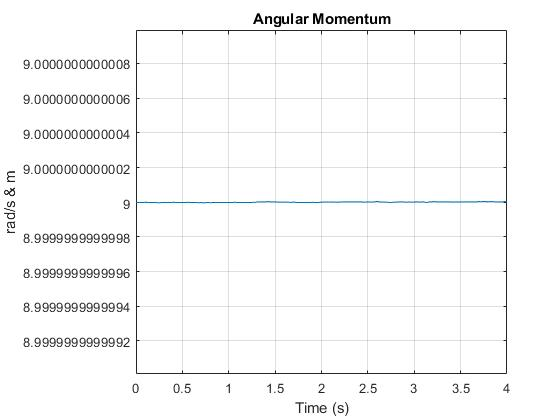
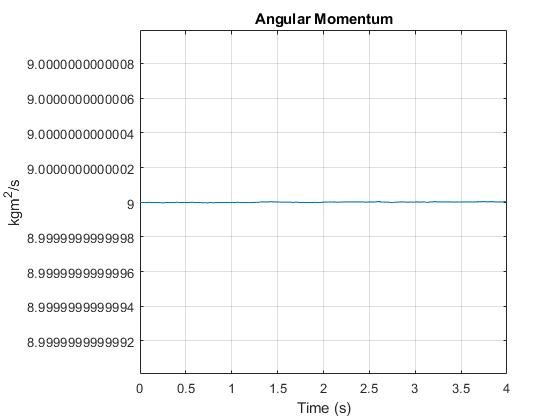
Adding Tree to README

diff --git a/OstLab/Lab2.m b/OstLab/Lab2.m
@@ -45,11 +45,11 @@ ks = 10; % Spring constant.
 kd = 0; % Damping coefficient.w
 g = 0; % NO GRAVITY.
 % The particles are released from rest, i.e:
-v = 5;
+v = 0;
 v1 = [0 -v];
 v2 = [0 v];
 T = 4;
-dt = 2e-2;
+dt = 4e-2;
 % ---------------
 visualize = 0;
 record = 0;
@@ -110,7 +110,7 @@ amps = abs(spring_length-L); % The amplitudes represent the strech of the spring
 % Calculate the difference in energy per occilation.
 if kd==0
     [amp_peaks,t_peaks] = findpeaks(amps);
-    E_diff = abs(E(t_peaks(2))-E(t_peaks(1)))/E(t_peaks(1))*100; % Difference in %
+    E_diff = max(abs(E(t_peaks(2:end))-E(t_peaks(1:end-1)))./E(t_peaks(1:end-1))*100); % Difference in %
     fprintf("\nUsing %.4f results in maximum \nrelative differenceo of %.3f %%\n",dt,E_diff)
 end
 %
@@ -159,7 +159,7 @@ if abs(v)>0
 %     legend(Location="best")
     title("Angular Momentum")
     xlabel("Time (s)")
-    ylabel("rad/s & m")
+    ylabel("kgm^2/s")
     hold off;
     I = sum((spring_length/2).^2.*masses',2);
     ang_freq = ang_mom./I;

diff --git a/README.md b/README.md
@@ -1,2 +1,21 @@
 # Applied Vector Analysis
- 
+:.
+├───Code
+│   └───Surfaces
+├───Lecture-3
+├───Lecture-4
+├───Lecture-5
+│   └───images
+├───Lecture-6
+├───Lecture-8
+└───OstLab
+    ├───Images
+    │   ├───Lab2
+    │   ├───Lab3
+    │   └───Lab4
+    └───Video
+        ├───Lab2
+        ├───Lab3
+        ├───Lab4
+        ├───Lab5
+        └───Lab6
